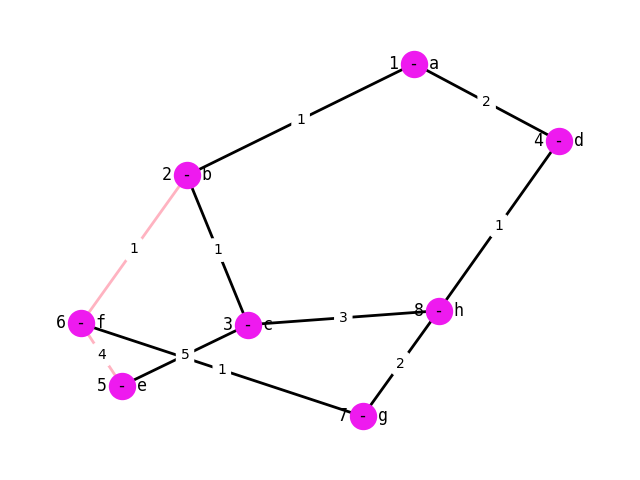
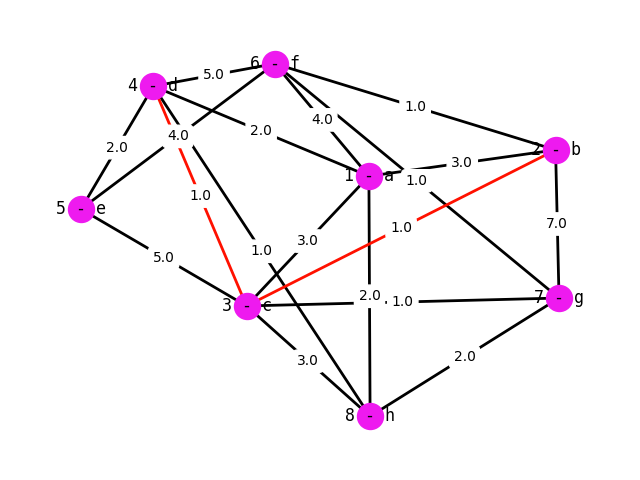
chore: fix positioning, add some file for readme and testcase

diff --git a/src/main.py b/src/main.py
@@ -10,6 +10,7 @@ from PIL import Image, ImageTk
 # Root Window
 root = Tk()
 root.title("PathFinder - Using UCS and A*")
+root.resizable(0,0)
 
 # Center the Window
 screen_width = root.winfo_screenwidth()
@@ -28,11 +29,11 @@ canvas.create_image(0, 0, image = background, anchor = "nw")
 
 # Basic UI Label and Shape
 canvas.create_text(400, 10, anchor="nw", text= "\u2605 Path Finder \u2605", font=("Segoe Script", 25, 'bold'), fill="#FFB3C1")
-canvas.create_text(40, 100, anchor="nw", text= "Choose your graph file!", font=("Georgia", 16), fill="#FFFFFF")
-canvas.create_text(40, 200, anchor="nw", text= "Choose the path to find!", font=("Georgia", 16), fill="#FFFFFF")
-canvas.create_text(40, 240, anchor="nw", text= "Start Node: ", font=("Georgia", 16), fill="#FFFFFF")
-canvas.create_text(40, 280, anchor="nw", text= "Goal Node: ", font=("Georgia", 16), fill="#FFFFFF")
-canvas.create_text(40, 350, anchor="nw", text= "Choose the algorithm!", font=("Georgia", 16), fill="#FFFFFF")
+canvas.create_text(70, 160, anchor="nw", text= "Choose your graph file!", font=("Georgia", 16), fill="#FFFFFF")
+canvas.create_text(70, 270, anchor="nw", text= "Choose the path to find!", font=("Georgia", 16), fill="#FFFFFF")
+canvas.create_text(70, 300, anchor="nw", text= "Start Node: ", font=("Georgia", 16), fill="#FFFFFF")
+canvas.create_text(70, 340, anchor="nw", text= "Goal Node: ", font=("Georgia", 16), fill="#FFFFFF")
+canvas.create_text(70, 420, anchor="nw", text= "Choose the algorithm!", font=("Georgia", 16), fill="#FFFFFF")
 canvas.create_rectangle(0, 70, 1440, 75, fill="#EE1AEF")
 canvas.create_rectangle(0, 80, 1440, 85, fill="#EE1AEF")
 canvas.create_rectangle(400, 85, 405, 1080, fill="#EE1AEF")
@@ -47,10 +48,10 @@ valid = False
 fileName = StringVar()
 fileName.set("")
 fileNameLabel = Label(canvas, textvariable=fileName, fg="#000000", bg="#FFB3C1", font=("Times New Roman", 16), borderwidth=2, anchor="w", height= 1, width=20, relief="ridge")
-fileNameWindow = canvas.create_window(40, 135, anchor="nw", window=fileNameLabel)
+fileNameWindow = canvas.create_window(70, 195, anchor="nw", window=fileNameLabel)
 
 # Parsing Exception Label
-parseExceptionLabel = canvas.create_text(140, 300, text = "", font=("Times New Roman", 16), fill="#FFFFFF", anchor="w")
+parseExceptionLabel = canvas.create_text(70, 240, text = "", font=("Times New Roman", 11), fill="#FFFFFF", anchor="w")
 
 # Procedure when the choose file button is clicked
 def askFileName():
@@ -78,7 +79,7 @@ def askFileName():
 
 # File Chooser Button
 fileChooserButton = Button(canvas, text="\u2b60", font=("Times New Roman", 11), command=askFileName, height= 1, width=4, bg="#EE1AEF")
-fileChooserWindow = canvas.create_window(245, 135, anchor="nw", window=fileChooserButton)
+fileChooserWindow = canvas.create_window(275, 195, anchor="nw", window=fileChooserButton)
 
 """========================================= NODE CHOOSING SEGMENT ========================================="""
 # The Option Chosen
@@ -89,12 +90,12 @@ node = [0]
 # Start Node Option Menu
 startNodeOption = OptionMenu(canvas, startChosen, *node)
 startNodeOption.config(height=1, width=5, background="#FFB3C1")
-startNodeWindow = canvas.create_window(160, 240, anchor="nw", window=startNodeOption)
+startNodeWindow = canvas.create_window(190, 300, anchor="nw", window=startNodeOption)
 
 # Goal Node Option Menu
 goalNodeOption = OptionMenu(canvas, goalChosen, *node)
 goalNodeOption.config(height=1, width=5, background="#FFB3C1")
-goalNodeWindow = canvas.create_window(160, 280, anchor="nw", window=goalNodeOption)
+goalNodeWindow = canvas.create_window(190, 340, anchor="nw", window=goalNodeOption)
 
 # Update the nodes option according to the graph file
 def updateOptionNode(row):
@@ -110,7 +111,7 @@ def updateOptionNode(row):
 
 """========================================= PATH FINDING SEGMENT ========================================="""
 # Running Algorithm Exception Label
-algorithmExceptionLabel = canvas.create_text(140, 657, text = "", font=("Times New Roman", 17), fill="#FFFFFF", anchor="w")
+algorithmExceptionLabel = canvas.create_text(70, 500, text = "", font=("Times New Roman", 11), fill="#FFFFFF", anchor="w")
 
 # Check if the algorithm can be run
 def validateInput():
@@ -137,7 +138,7 @@ def findUCSPath():
 
 # UCS Button    
 ucsButton = Button(canvas, text="UCS", font=("Times New Roman", 15, 'bold'), command=findUCSPath, height=1, width=8, bg="#EE1AEF")
-ucsWindow = canvas.create_window(40, 390, anchor="nw", window=ucsButton)
+ucsWindow = canvas.create_window(70, 450, anchor="nw", window=ucsButton)
 
 # Start the A* Algorithm
 def findAStarPath():
@@ -155,21 +156,21 @@ def findAStarPath():
 
 # A* Button
 aStarButton = Button(canvas, text="A*", font=("Times New Roman", 15, 'bold'), command=findAStarPath, height=1, width=8, bg="#EE1AEF")
-aStarWindow = canvas.create_window(175, 390, anchor="nw", window=aStarButton)
+aStarWindow = canvas.create_window(205, 450, anchor="nw", window=aStarButton)
 
 """========================================= SHOWING RESULT SEGMENT ========================================="""
 # Graph Image
 graphImage = PhotoImage(file="../assets/logo.png")
-graphWindow = canvas.create_image(430, 125, anchor="nw", image=graphImage)
+graphWindow = canvas.create_image(500, 125, anchor="nw", image=graphImage)
 
 # Algorithm Used Label
-algorithmUsedLabel = canvas.create_text(430, 510, text = "", font=("Georgia", 12), fill="#FFFFFF", anchor="w")
+algorithmUsedLabel = canvas.create_text(500, 510, text = "", font=("Georgia", 12), fill="#FFFFFF", anchor="w")
 
 # Result Path Label
-resultPathLabel = canvas.create_text(430, 540, text = "", font=("Georgia", 12), fill="#FFFFFF", anchor="w")
+resultPathLabel = canvas.create_text(500, 540, text = "", font=("Georgia", 12), fill="#FFFFFF", anchor="w")
 
 # Distance Label
-distanceLabel = canvas.create_text(430, 570, text = "", font=("Georgia", 12), fill="#FFFFFF", anchor="w")
+distanceLabel = canvas.create_text(500, 570, text = "", font=("Georgia", 12), fill="#FFFFFF", anchor="w")
 
 # Update result according to parameter
 def updateResult(resultPath, pathName, distance, flag):
@@ -181,7 +182,7 @@ def updateResult(resultPath, pathName, distance, flag):
         else:
             canvas.itemconfigure(algorithmUsedLabel, text="Using A* Algorithm")
         canvas.itemconfigure(resultPathLabel, text=f"Result Path: {pathName}")
-        canvas.itemconfigure(distanceLabel, text=f"Distance    : {distance}")
+        canvas.itemconfigure(distanceLabel, text=f"Distance      : {distance}")
     else:
         drawer.drawGraph()
         canvas.itemconfigure(algorithmUsedLabel, text="")
@@ -196,7 +197,7 @@ def updateResult(resultPath, pathName, distance, flag):
     new_height = int(image.height * 0.75)
 
     # Resize the image
-    resized_image = image.resize((new_width, new_height), Image.ANTIALIAS)
+    resized_image = image.resize((new_width, new_height), Image.LANCZOS)
     graphImage = ImageTk.PhotoImage(resized_image)
     canvas.itemconfigure(graphWindow, image=graphImage)
 

diff --git a/src/Helper/GraphDrawer.py b/src/Helper/GraphDrawer.py
@@ -38,12 +38,16 @@ class GraphDrawer:
         # Create the image of graph and save it
         edges = [(u, v) for (u, v, d) in self.graph.edges(data=True)]
         edge_labels = nx.get_edge_attributes(self.graph, "weight")
-        pos = nx.spring_layout(self.graph, seed=len(self.nodeName))
+        try:
+            pos = nx.planar_layout(self.graph)
+        except:
+            pos = nx.spring_layout(self.graph, seed=len(self.nodeName))
 
         nx.draw_networkx_nodes(self.graph, pos, node_size=350, node_color="#EE1AEF")
         nx.draw_networkx_labels(self.graph, pos, font_size=12, font_family="monospace")
         nx.draw_networkx_edges(self.graph, pos, edgelist=edges, width=2)
-        nx.draw_networkx_edge_labels(self.graph, pos, edge_labels, rotate=False)
+        if (len(self.nodeName) < 15):
+            nx.draw_networkx_edge_labels(self.graph, pos, edge_labels, rotate=False)
 
         ax = plt.gca()
         ax.margins(0.08)
@@ -61,13 +65,17 @@ class GraphDrawer:
         normalEdges = [(u, v) for (u, v, d) in self.graph.edges(data=True) if (u, v) not in resultEdge]
         resultEdges = [(u, v) for (u, v, d) in self.graph.edges(data=True) if (u, v) in resultEdge]
         edge_labels = nx.get_edge_attributes(self.graph, "weight")
-        pos = nx.spring_layout(self.graph, seed=len(self.nodeName))
+        try:
+            pos = nx.planar_layout(self.graph)
+        except:
+            pos = nx.spring_layout(self.graph, seed=len(self.nodeName))
 
         nx.draw_networkx_nodes(self.graph, pos, node_size=350, node_color="#EE1AEF")
         nx.draw_networkx_labels(self.graph, pos, font_size=12, font_family="monospace")
         nx.draw_networkx_edges(self.graph, pos, edgelist=normalEdges, width=2, edge_color="#000000")
-        nx.draw_networkx_edges(self.graph, pos, edgelist=resultEdges, width=2, edge_color="#FFB3C1")
-        nx.draw_networkx_edge_labels(self.graph, pos, edge_labels, rotate=False)
+        nx.draw_networkx_edges(self.graph, pos, edgelist=resultEdges, width=2, edge_color="#FF1100")
+        if (len(self.nodeName) < 15):
+            nx.draw_networkx_edge_labels(self.graph, pos, edge_labels, rotate=False)
 
         ax = plt.gca()
         ax.margins(0.08)

diff --git a/README.md b/README.md
@@ -14,12 +14,12 @@ Tugas Kecil III IF2211 Algorithm Strategies
 Program ini dapat digunakan untuk mencari lintasan terdekat dari suatu simpul ke simpul yang lain pada suatu graf menggunakan algoritma Uniform Cost Search (UCS) dan algoritma A star (A*). Program mendapatkan grafnya berdasarkan input file text yang berisi matriks ketetanggaan beserta nilai heuristiknya.
 
 ## Tampilan Program
-To Be Updated
+![Screenshot](assets/screenshot.jpg)
 
 ## How To Run
 In terminal, move to src folder and run:
 ```shell
-run main.py
+python main.py
 ```
 A window will appear if the program is run successfully!
 
@@ -30,6 +30,8 @@ A window will appear if the program is run successfully!
 ### Requirements
 * Tkinter
 * Pillow
+* Networkx
+* Matplotlib
 
 ## Project Structure
 ```bash
@@ -39,7 +41,7 @@ Tucil3_13521062_13521064
 │    ├──background.png
 │    ├──graph.png
 │    ├──logo.png
-│    └──screenshot.png
+│    └──screenshot.jpg
 │
 ├───doc
 │    └──Tucil3_13521062_13521064.pdf
@@ -58,7 +60,10 @@ Tucil3_13521062_13521064
 ├───test
 │    ├──tc1.txt
 │    ├──tc2.txt
-│    └──tc3.txt
+│    ├──tc3.txt
+│    ├──tc5-Imaginary.txt
+│    ├──tc6-BigImaginary.txt
+│    └──tc7-WrongInput.txt
 │
 └───README.md
 ```
